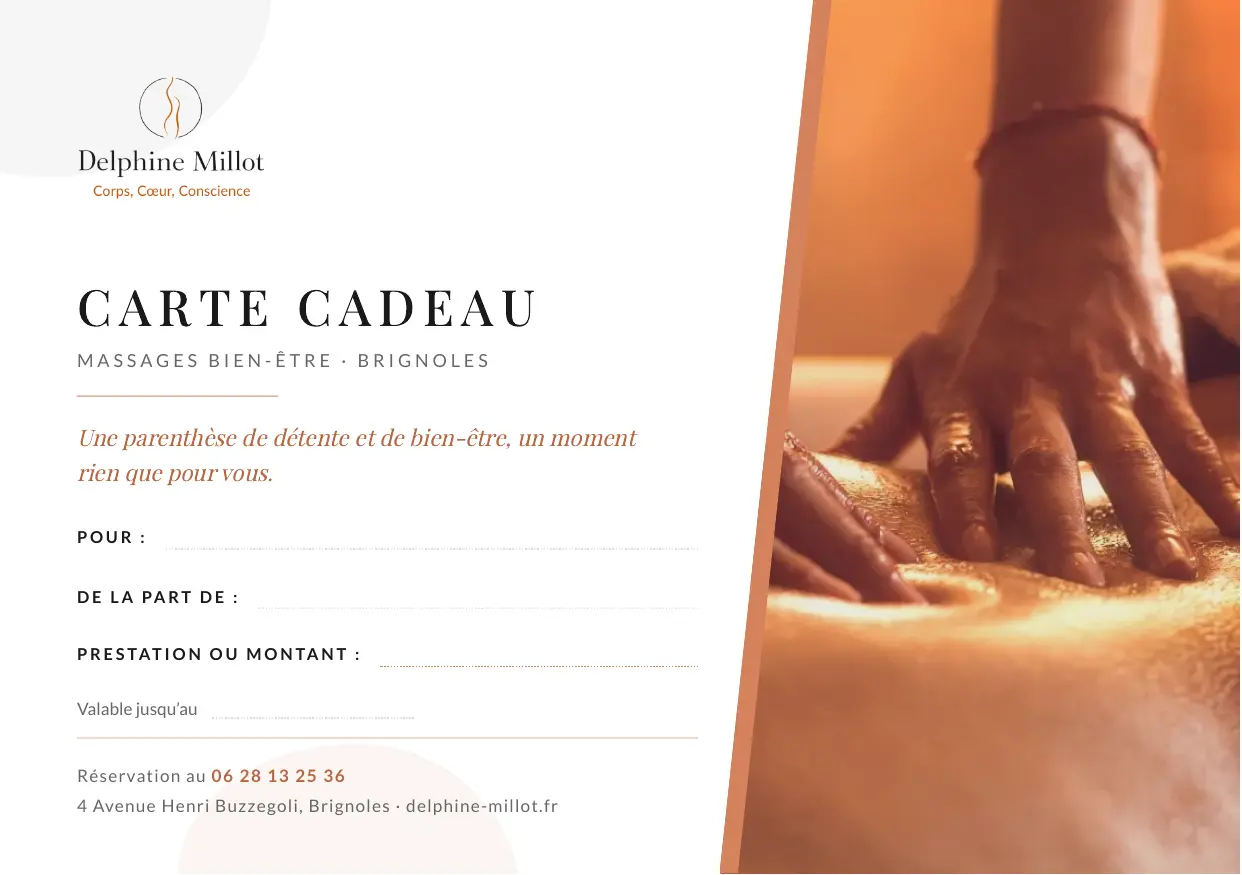
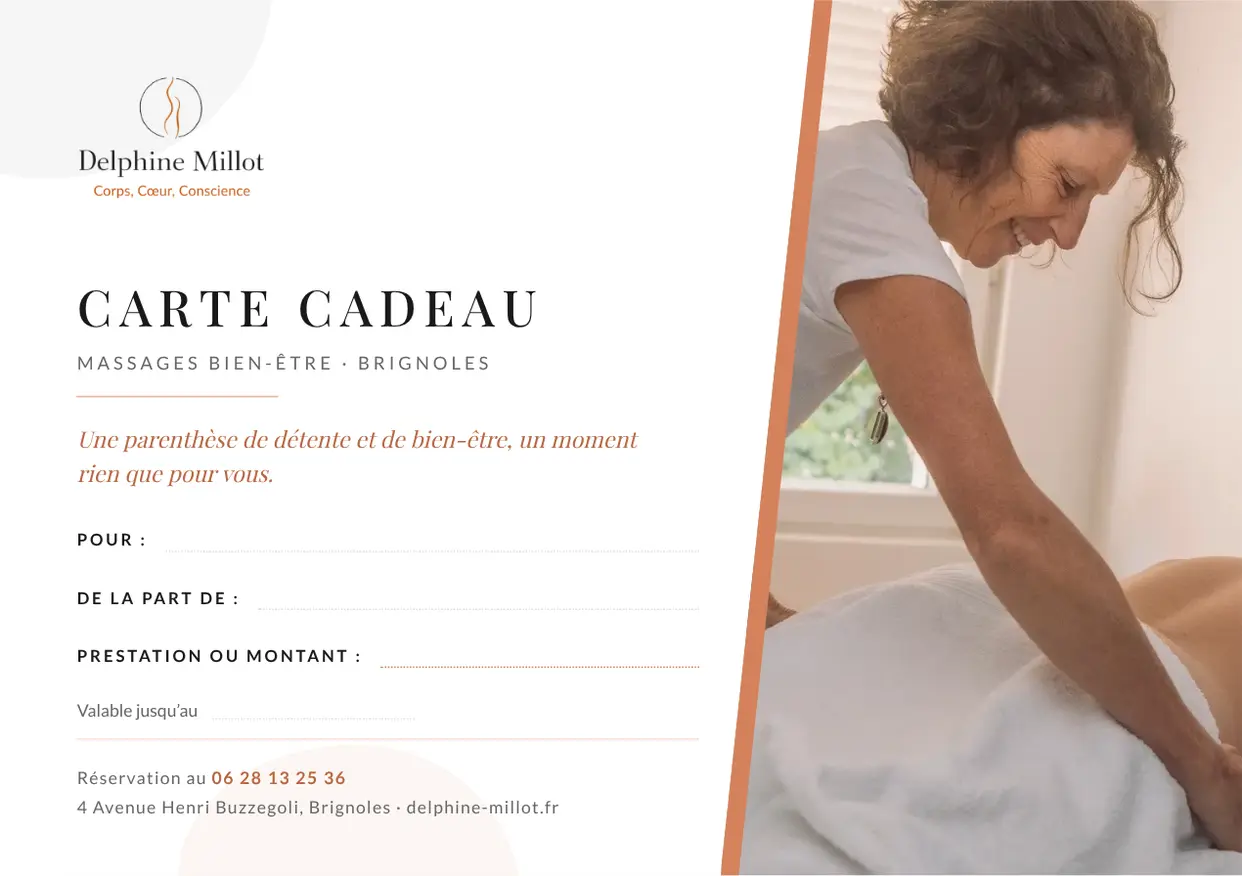
feat: aperçu carte cadeau avec photo réelle de massage, retour de l'aperçu dans l'encart de l'accueil
Claude-Session: https://claude.ai/code/session_01HHsczSPgiEALTZLFFFkJyL

diff --git a/index.html b/index.html
@@ -310,7 +310,7 @@
     <!-- ENCART CADEAU DE NOËL (saisonnier : retirer après les fêtes) -->
     <section style="background-color: rgba(212,130,92,.08); padding-top: var(--spacing-lg); padding-bottom: var(--spacing-lg);">
         <div class="container" style="display: flex; flex-wrap: wrap; align-items: center; justify-content: center; gap: var(--spacing-lg);">
-            <img src="/images/massage-bas-dos.webp" alt="Delphine Millot souriante pendant un massage dans son cabinet de Brignoles" style="max-width: 480px; width: 100%; aspect-ratio: 3 / 2; object-fit: cover; border-radius: var(--border-radius); flex-shrink: 0;">
+            <img src="/images/carte-cadeau-apercu.webp" alt="Aperçu de la carte cadeau Delphine Millot" style="max-width: 480px; width: 100%; flex-shrink: 0;">
             <div style="max-width: 440px; text-align: center;">
                 <h2 style="margin-bottom: var(--spacing-sm);">Offrez un massage pour No&euml;l</h2>
                 <p style="color: var(--gris-texte); margin-bottom: var(--spacing-md);">La carte cadeau personnalis&eacute;e : une dur&eacute;e, un massage pr&eacute;cis ou un montant libre, d&egrave;s 50&nbsp;&euro;. Remise par e-mail ou imprim&eacute;e, pr&ecirc;te &agrave; glisser sous le sapin.</p>
